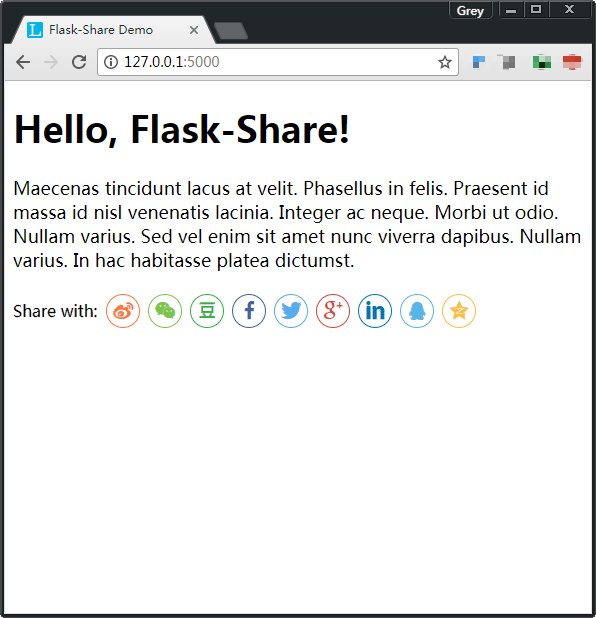
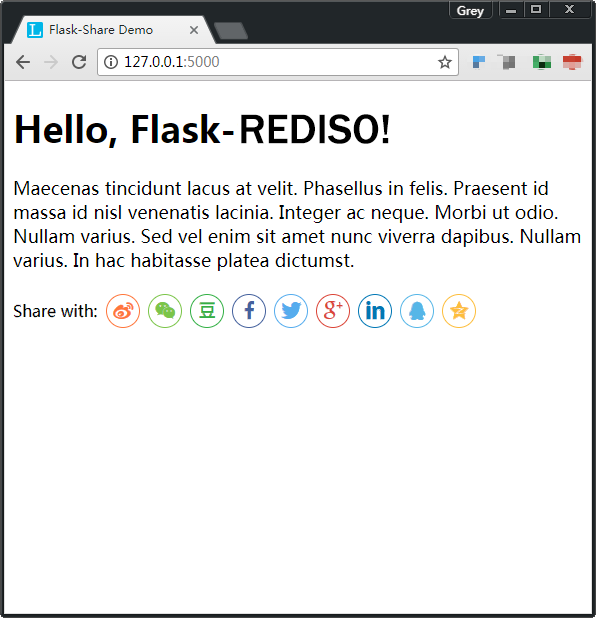
fix a lot

Changed region(s): [[0.3926, 0.1845, 0.6644, 0.246]]

diff --git a/example/templates/index.html b/example/templates/index.html
@@ -3,12 +3,12 @@
 <head>
     <meta charset="UTF-8">
     <meta name="viewport" content="width=device-width, initial-scale=1.0">  <!-- Make sure to add this line. -->
-    <title>Flask-Share Demo</title>
+    <title>REDISO Demo</title>
     {{ share.load() }}
 </head>
 <body>
 	<div style="max-width: 700px; margin: auto">
-		<h1>Hello, Flask-Share!</h1>
+		<h1>Hello, REDISO!</h1>
 		<p>Maecenas tincidunt lacus at velit. Phasellus in felis. Praesent id massa id nisl venenatis lacinia. Integer ac neque.
 		Morbi ut odio. Nullam varius. Sed vel enim sit amet nunc viverra dapibus. Nullam varius. In hac habitasse platea dictumst. 
 		Nunc nisl. Curabitur convallis. Pellentesque viverra pede ac diam.</p>

diff --git a/docs/conf.py b/docs/conf.py
@@ -19,7 +19,7 @@
 
 # -- Project information -----------------------------------------------------
 
-project = u'Flask-Share'
+project = u'REDISO'
 copyright = u'2018, Grey Li'
 author = u'Grey Li'
 
@@ -86,7 +86,7 @@ html_theme = 'flask_small'
 html_theme_options = {
     # 'github_user': 'greyli',
     'index_logo': '',
-    'github_fork': 'greyli/flask-share',
+    'github_fork': 'greyli/REDISO',
     # 'description': 'Create social share component in Jinja2 template based on share.js.',
 }
 
@@ -107,7 +107,7 @@ html_theme_path = ['_themes']
 # -- Options for HTMLHelp output ---------------------------------------------
 
 # Output file base name for HTML help builder.
-htmlhelp_basename = 'Flask-Sharedoc'
+htmlhelp_basename = 'REDISOdoc'
 
 
 # -- Options for LaTeX output ------------------------------------------------
@@ -134,7 +134,7 @@ latex_elements = {
 # (source start file, target name, title,
 #  author, documentclass [howto, manual, or own class]).
 latex_documents = [
-    (master_doc, 'Flask-Share.tex', u'Flask-Share Documentation',
+    (master_doc, 'REDISO.tex', u'REDISO Documentation',
      u'Grey Li', 'manual'),
 ]
 
@@ -144,7 +144,7 @@ latex_documents = [
 # One entry per manual page. List of tuples
 # (source start file, name, description, authors, manual section).
 man_pages = [
-    (master_doc, 'flask-share', u'Flask-Share Documentation',
+    (master_doc, 'REDISO', u'REDISO Documentation',
      [author], 1)
 ]
 
@@ -155,8 +155,8 @@ man_pages = [
 # (source start file, target name, title, author,
 #  dir menu entry, description, category)
 texinfo_documents = [
-    (master_doc, 'Flask-Share', u'Flask-Share Documentation',
-     author, 'Flask-Share', 'One line description of project.',
+    (master_doc, 'REDISO', u'REDISO Documentation',
+     author, 'REDISO', 'One line description of project.',
      'Miscellaneous'),
 ]
 

diff --git a/setup.py b/setup.py
@@ -1,5 +1,5 @@
 """
-    Flask-Share
+    REDISO
     ~~~~~~~~~~~~~~
     Create social share component in Jinja2 template based on share.js.
 
@@ -19,9 +19,9 @@ with open(path.join(basedir, 'README.md'), encoding='utf-8') as f:
 
 
 setup(
-    name='Flask-Share',
+    name='REDISO',
     version='0.1.1',
-    url='https://github.com/greyli/flask-share',
+    url='https://github.com/greyli/REDISO',
     license='MIT',
     author='Grey Li',
     author_email='withlihui@gmail.com',

diff --git a/Readme.md b/Readme.md
@@ -8,21 +8,17 @@ Follow the steps described below:
 
 ### Installation
 
-$ pip install flask-share
+<p>$ pip install REDISO</p>
 
 ### Initialize
 
-from flask_share import Share
-...
-share = Share(app)
-
-### Example
-
-Here is a simple demo to demonstrate how to create a share component in template:
+<p>from flask_share import Share</p>
+<p>...</p>
+<p>share = Share(app)</p>
 
 ## Screenshot
 
-![flask-share demo](images/demo.png)
+![REDISO demo](images/demo.png)
 
 ## License
 
